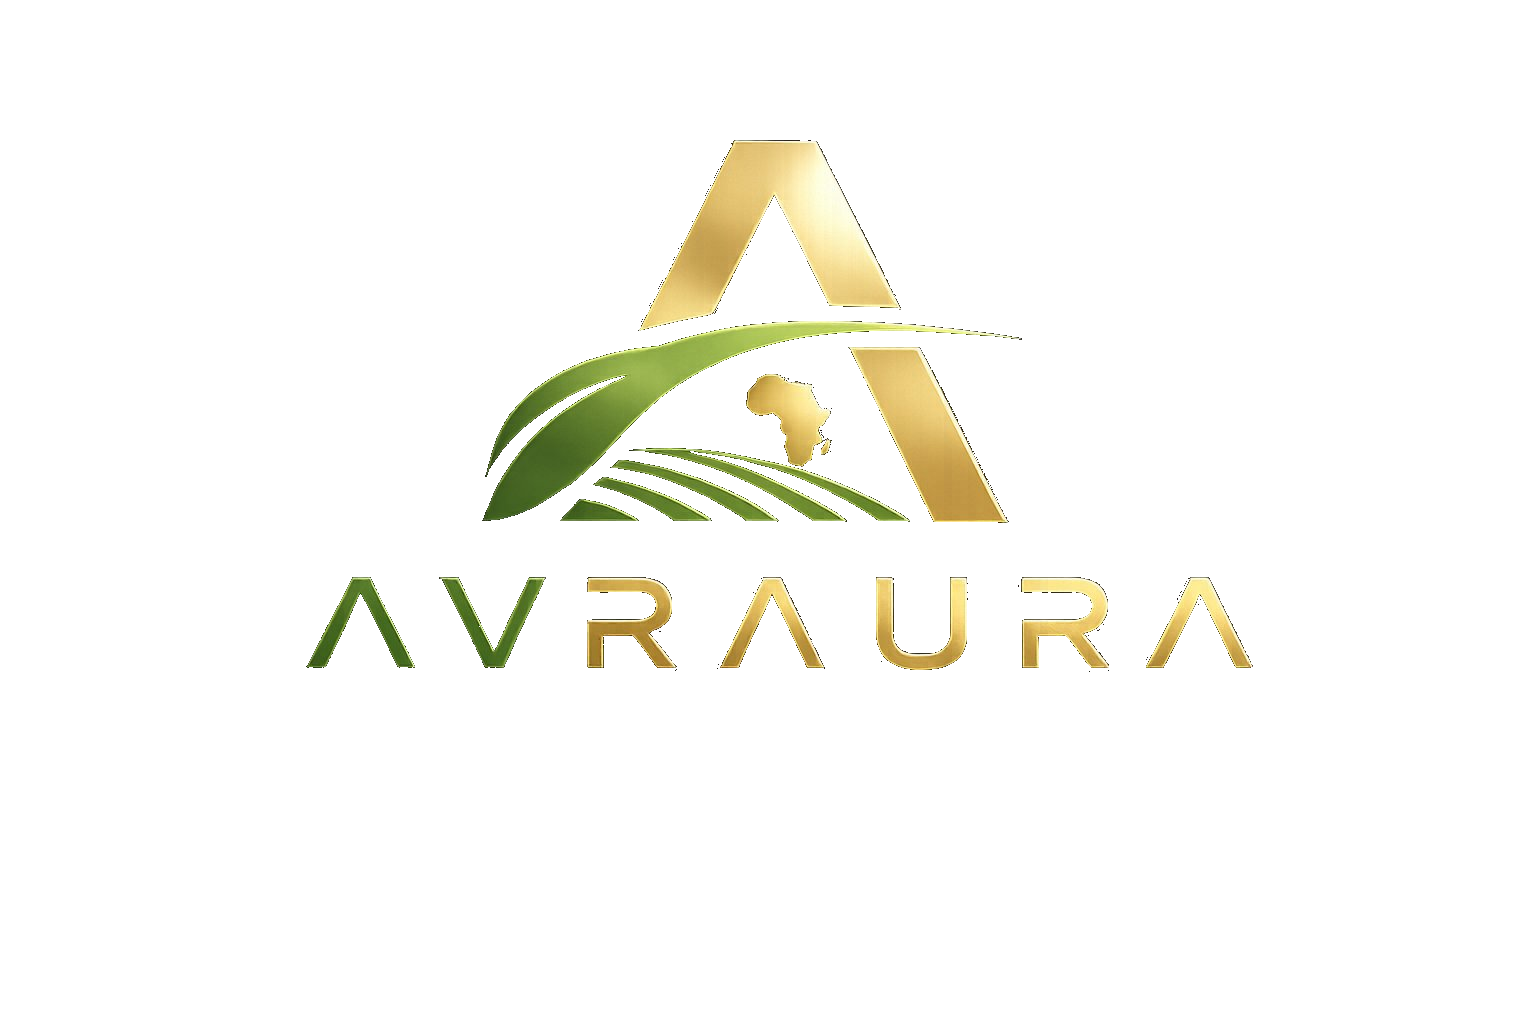
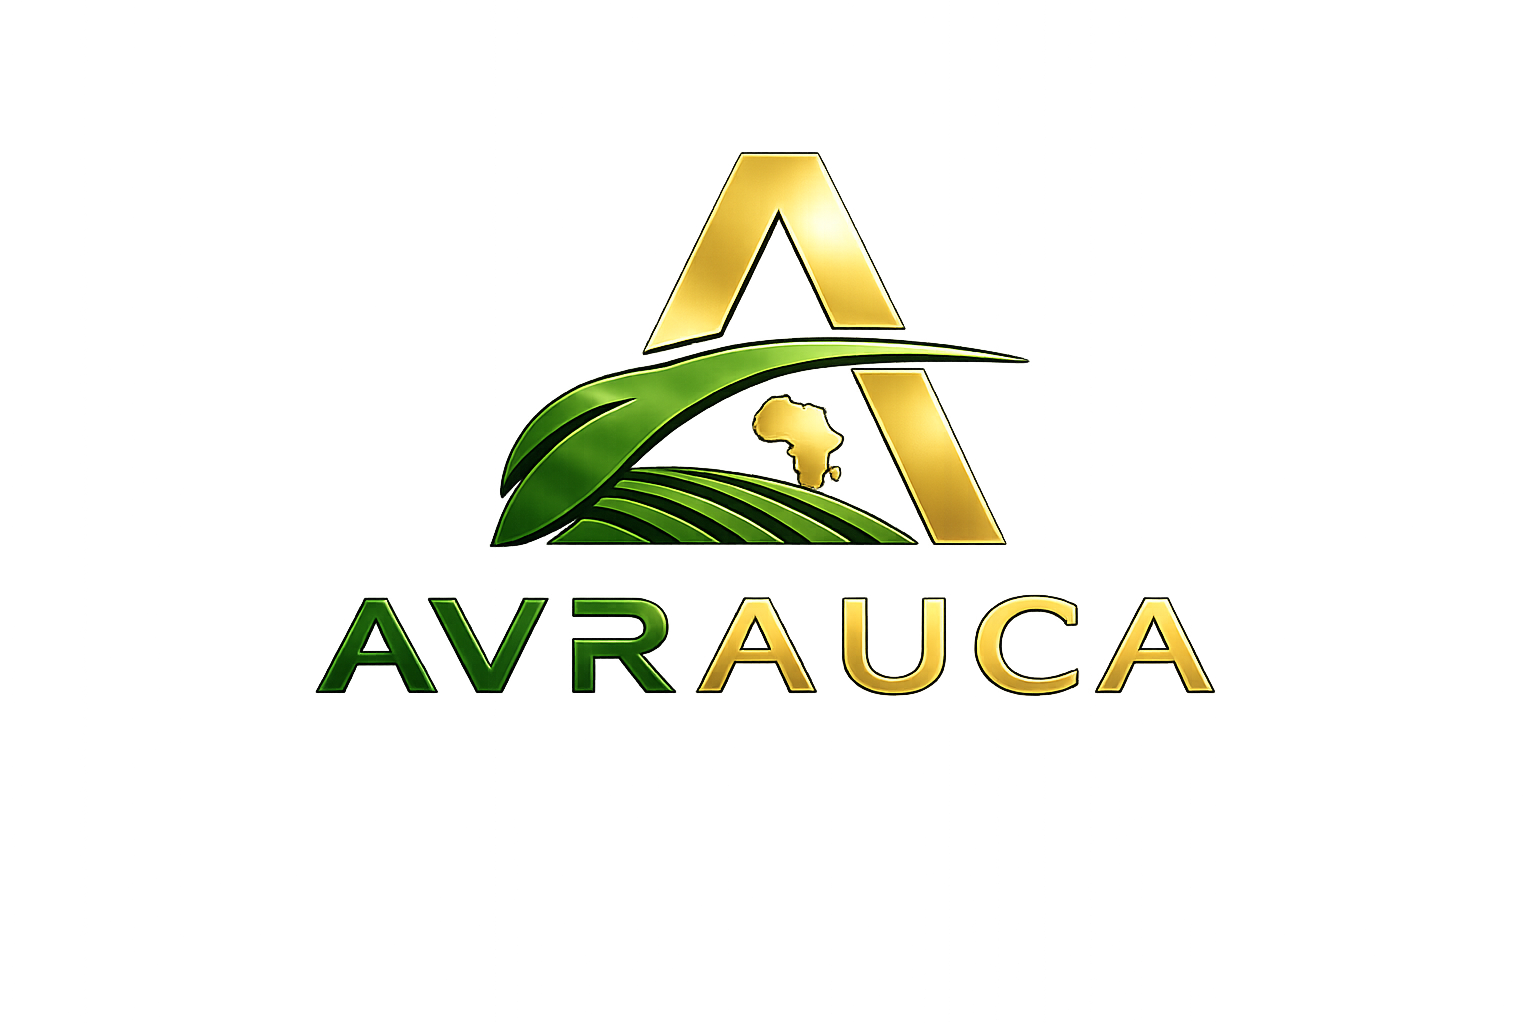
rebrand to Avrauca and update site

Changed region(s): [[0.3125, 0.125, 0.6562, 0.5312], [0.1875, 0.5625, 0.8125, 0.6875]]

diff --git a/index.html b/index.html
@@ -3,14 +3,14 @@
 <head>
   <meta charset="UTF-8" />
   <meta name="viewport" content="width=device-width, initial-scale=1.0" />
-  <title>Avraura | Better Quality Before Processing</title>
+  <title>Avrauca | Better Quality Before Processing</title>
   <link rel="stylesheet" href="styles.css" />
 </head>
 <body>
 
 <header class="nav">
   <a href="#home" class="brand">
-    <img src="AVRCLEAR.PNG" alt="Avraura Logo" class="nav-logo">
+    <img src="AVRCLEAR.PNG" alt="Avrauca Logo" class="nav-logo">
   </a>
 
   <nav>
@@ -42,7 +42,7 @@
     <div class="line"></div>
 
     <p>
-      Many crops lose quality before they ever reach a processing facility. Avraura helps farmers
+      Many crops lose quality before they ever reach a processing facility. Avrauca helps farmers
       use simple tools like drying beds, storage, sorting, and first-stage processing so processors
       receive better raw materials and more value stays local.
     </p>
@@ -55,7 +55,7 @@
 
   <div class="hero-right">
     <div class="logo-glow"></div>
-    <img src="AVRCLEAR.PNG" alt="Avraura Logo" class="hero-logo floating-logo">
+    <img src="AVRCLEAR.PNG" alt="Avrauca Logo" class="hero-logo floating-logo">
   </div>
 </section>
 
@@ -124,7 +124,7 @@
   </h2>
 
   <p class="solution-text">
-    Avraura supports simple farm-gate preparation before crops move down the supply chain.
+    Avrauca supports simple farm-gate preparation before crops move down the supply chain.
     This can include drying beds, fermentation boxes, sorting, cleaning, better storage,
     and links to processors who are ready to buy higher-quality inputs.
   </p>
@@ -179,7 +179,7 @@
   <h2>Farmers win. Processors win. Buyers win.</h2>
   <p>
     Farmers can earn more from better quality crops. Processors get cleaner and more reliable inputs.
-    Buyers receive better products. Avraura helps make that chain work from the farm gate to the final sale.
+    Buyers receive better products. Avrauca helps make that chain work from the farm gate to the final sale.
   </p>
 </section>
 
@@ -190,11 +190,11 @@
     If you are a farmer group, processor, buyer, supplier network, investor, or agricultural partner,
     we would love to speak with you.
   </p>
-  <a href="mailto:[email redacted]" class="btn gold">Contact Avraura</a>
+  <a href="mailto:[email redacted]" class="btn gold">Contact Avrauca</a>
 </section>
 
 <footer>
-  <p>© 2026 Avraura. Helping crops keep their value before processing.</p>
+  <p>© 2026 Avrauca. Helping crops keep their value before processing.</p>
 </footer>
 
 <script src="script.js"></script>